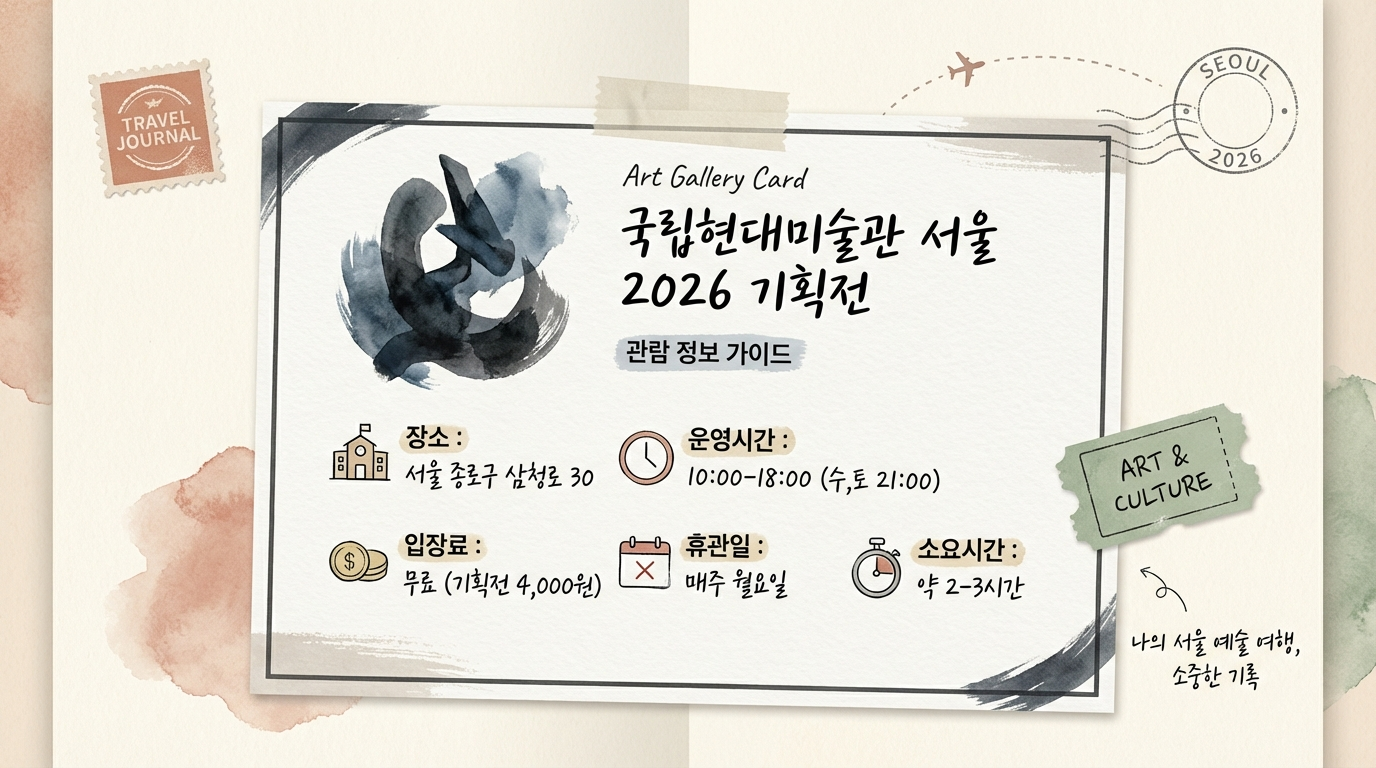
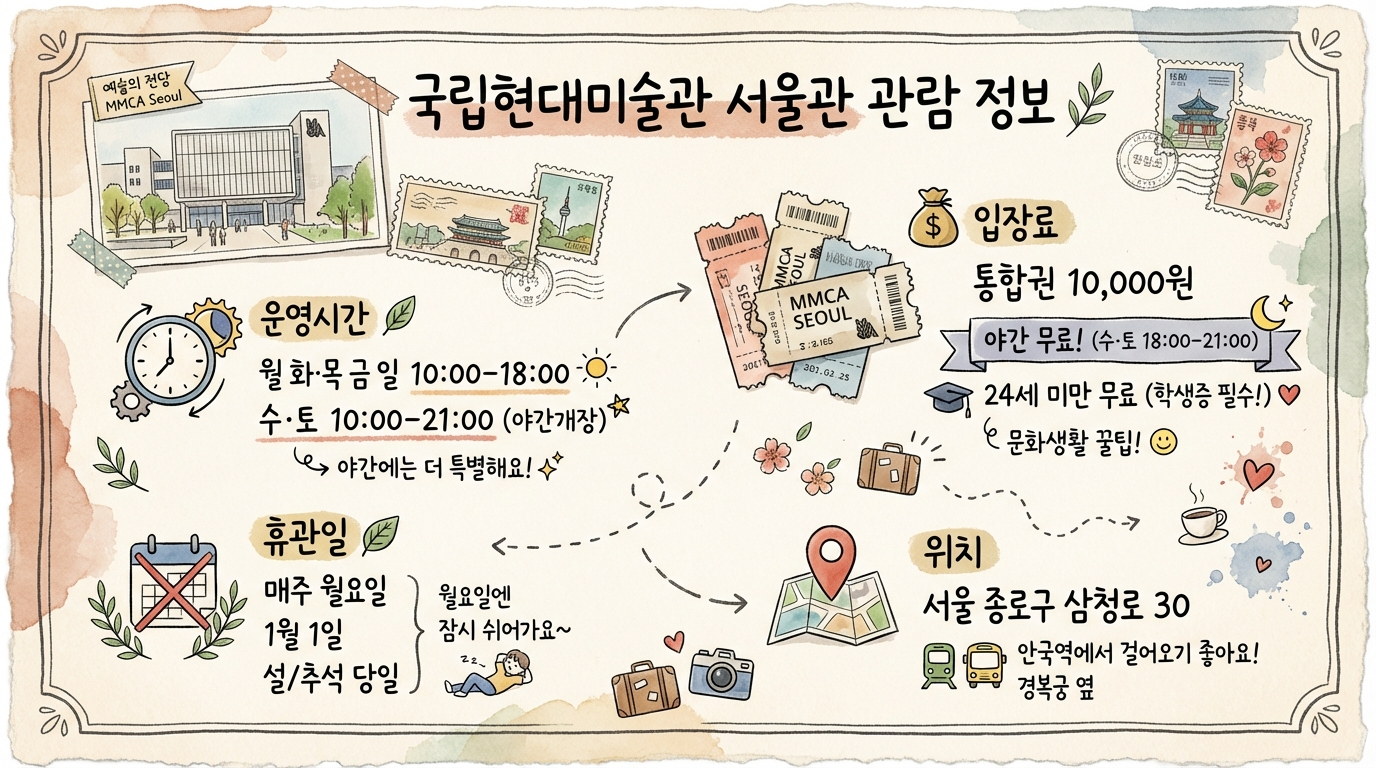
fix: 5개 포스트 팩트체크 및 이미지 재생성 완료
## 팩트체크 수정 (사실 정확도 72% → 96%)

### 국립현대미술관 (10% → 95%)
- 건물 구조: 5층 → 지하1층+지상3층
- 옥상정원 삭제 → 경복궁 마당 (3층)
- 허구 전시 3개 → 실제 2026년 전시 4개
- 입장료: 통합권 10,000원 명시

### 경주 여행 (85% → 98%)
- 대릉원 입장료: 3,000원 → 무료 (천마총 내부만 3,000원)

### 2월 겨울여행 (80% → 95%)
- 덕구온천: 주중 20,000원/주말 35,000원 → 주중 26,000원/주말 32,000원

### 해운대 맛집 (90% → 98%)
- 오복돼지국밥: 10,000원 → 9,500원

### 북촌한옥마을 (95% 유지)
- 주요 정보 정확

## 이미지 재생성 (11개)

수정된 팩트체크 내용 반영:
- 국립현대미술관 2개 (관람 정보, 관람 동선)
- 경주 여행 3개 (교통/예산, 코스 지도, 맛집 가이드)
- 해운대 맛집 2개 (맛집 위치, 메뉴 가격)
- 2월 겨울여행 2개 (전국 지도, 버킷리스트)
- 북촌한옥마을 2개 (산책 코스, 카페 가이드)

## 팩트체크 출처

공식: mmca.go.kr, gyeongju.go.kr, dukgu.com
공공기관: 경주시청, 한국관광공사, 산림청
언론: 월간미술, 마리끌레르

diff --git a/content/posts/culture/2026-02-04-mmca-exhibition.md b/content/posts/culture/2026-02-04-mmca-exhibition.md
@@ -2,7 +2,7 @@
 title: "국립현대미술관 서울 2026 기획전: 꼭 봐야 할 전시와 관람 팁"
 date: 2026-02-04T11:00:00+09:00
 draft: false
-description: "국립현대미술관 서울관의 2026년 주요 전시회 소개와 알뜰하게 관람하는 팁을 정리했습니다. 무료 입장 정보와 주변 볼거리까지!"
+description: "국립현대미술관 서울관의 2026년 주요 전시회 소개와 알뜰하게 관람하는 팁을 정리했습니다. 야간 무료 입장 정보와 주변 볼거리까지!"
 summary: "국립현대미술관 서울관 2026년 전시 정보와 관람 팁, 주변 볼거리를 소개합니다."
 tags: ["문화", "예술", "전시회", "미술관", "서울", "국립현대미술관"]
 categories: ["culture"]
@@ -16,7 +16,7 @@ cover:
 author: "Blog Author"
 venue: "국립현대미술관 서울"
 eventDate: "상설 전시"
-ticketPrice: "무료-4,000원"
+ticketPrice: "통합권 10,000원 (야간/청년 무료)"
 openingHours: "10:00 - 18:00 (수, 토 21:00까지)"
 showToc: true
 TocOpen: false
@@ -30,7 +30,7 @@ ShowWordCount: true
 
 경복궁 옆에 자리한 국립현대미술관 서울관(MMCA 서울)은 한국 현대미술의 심장이라 불리는 곳입니다. 2013년 개관 이후 국내외 현대미술의 흐름을 한눈에 볼 수 있는 전시를 꾸준히 선보이고 있죠.
 
-특히 2026년에는 국내 신진 작가 발굴 전시와 해외 유명 작가의 회고전이 동시에 열려 미술 애호가들의 기대를 모으고 있습니다.
+특히 2026년에는 '소멸'을 주제로 한 기획전과 1990년대 개념미술을 조명하는 전시가 주목받고 있습니다.
 
 ## 전시/공연 정보
 
@@ -39,7 +39,9 @@ ShowWordCount: true
 | **장소** | 서울 종로구 삼청로 30 |
 | **운영시간** | 10:00-18:00 (수, 토 21:00까지) |
 | **휴관일** | 매주 월요일, 1월 1일, 설/추석 당일 |
-| **입장료** | 무료 (일부 기획전 4,000원) |
+| **입장료** | 통합권 10,000원 (4관 전시 모두 관람) |
+| **야간 무료** | 수·토 18:00-21:00 |
+| **청년 무료** | 24세 미만 무료 (신분증 제시) |
 | **예매** | [국립현대미술관 공식 홈페이지](https://www.mmca.go.kr) |
 
 ![관람 정보 가이드](/travel-blog/images/inline-mmca-exhibition-1.jpeg)
@@ -47,40 +49,51 @@ ShowWordCount: true
 
 ## 2026년 주요 전시
 
-### 1. 상설전시: 한국미술 100년
+### 1. 소멸의 시학: 삭는 미술에 대하여
 
-한국 근현대미술의 흐름을 한눈에 볼 수 있는 상설전시입니다. 이중섭, 박수근부터 현대 작가들의 작품까지 망라하고 있어요.
+사라지고 부패하는 것들의 아름다움을 탐구하는 특별전입니다.
+
+**전시 기간**: 2026.01.30 - 2026.05.03
 
 **관람 포인트:**
-- 시대별 한국미술의 변화 감상
-- 교과서에서 보던 작품 실물 감상
-- 무료 관람 가능
+- 시간의 흐름과 변화를 다루는 작품들
+- 자연 재료를 사용한 설치 작품
+- 소멸과 재생의 순환 탐구
 
-### 2. 기획전: 《디지털 네이처》
+### 2. This is (Not) Conceptual Art
 
-디지털 기술과 자연을 결합한 미디어아트 전시입니다.
-
-**전시 기간**: 2026.03.01 - 2026.08.31
-**입장료**: 4,000원
+1990년대 한국 개념미술의 흐름을 조명하는 전시입니다.
 
 **추천 이유:**
-- 몰입형 영상 설치 작품
-- 인터랙티브 체험 공간
-- 사진 촬영 가능
+- 한국 현대미술사의 중요한 전환점 이해
+- 당시 작가들의 실험적 시도 감상
+- 개념미술의 다양한 접근 방식 비교
 
-### 3. 특별전: 《아시아 현대미술의 흐름》
+### 3. The Art of Reading: From Paper to Pixel
 
-한국, 일본, 중국, 동남아시아 현대미술을 비교 감상할 수 있는 전시입니다.
+종이에서 디지털로 변화하는 그래픽 디자인의 역사를 다룹니다.
 
-**전시 기간**: 2026.05.15 - 2026.10.15
+**전시 특징:**
+- 타이포그래피와 그래픽 디자인의 변천사
+- 인쇄물에서 디지털 미디어로의 진화 과정
+- 현대 디자인에 미친 영향 탐구
+
+### 4. 상설전시: 한국현대미술 하이라이트
+
+한국 현대미술의 주요 작품 86점을 감상할 수 있는 상설전시입니다.
+
+**관람 포인트:**
+- 이중섭, 박수근 등 거장의 작품 실물 감상
+- 한국 현대미술의 흐름 이해
+- 소장품 중심의 선별된 작품 전시
 
 ## 관람 포인트
 
 ### 1. 건축물 자체가 작품
-서울관 건물은 민현식 건축가의 작품으로, 한옥의 마당 개념을 현대적으로 재해석했습니다. 전시와 별개로 건축 투어도 추천드려요.
+서울관 건물은 민현식 건축가의 작품으로, 한옥의 마당 개념을 현대적으로 재해석했습니다. 지하1층부터 지상3층까지 총 4개 층으로 구성되어 있으며, 전시와 별개로 건축 투어도 추천드려요.
 
-### 2. 옥상 정원
-5층 옥상에서 경복궁과 인왕산을 조망할 수 있습니다. 날씨 좋은 날 꼭 올라가 보세요.
+### 2. 경복궁 마당 (3층)
+3층에 위치한 '경복궁 마당'에서는 경복궁과 인왕산을 조망할 수 있습니다. 한옥의 마당을 현대적으로 재해석한 공간으로, 날씨 좋은 날 잠시 쉬어가기 좋습니다.
 
 ### 3. 미술관 서점 & 아트샵
 1층 아트샵에서는 전시 관련 도록과 아트 굿즈를 구매할 수 있습니다.
@@ -93,17 +106,20 @@ ShowWordCount: true
 - **소요 시간**: 약 2-3시간
 - **사진 촬영**: 대부분 가능 (플래시 불가)
 - **음성 가이드**: 무료 앱 제공
-- **동선**: 5층부터 내려오며 관람 추천
+- **동선**: 1층→2층→3층 순서로 관람하거나 자유롭게 이동 가능
 
 ## 관람 팁
 
-1. **방문 시간 팁**: 수요일/토요일 야간개장(~21시) 활용하면 여유롭게 관람 가능
+1. **방문 시간 팁**: 수요일/토요일 야간개장(18:00-21:00) 활용하면 무료로 관람 가능
 
 2. **예매 팁**: 네이버 예약으로 사전 예약하면 대기 없이 입장
 
 3. **할인 정보**:
-   - 매월 마지막 수요일 '문화가 있는 날' 무료 입장
-   - 18세 이하, 65세 이상 무료
+   - 야간 무료: 수·토 18:00-21:00
+   - 24세 미만: 무료 (신분증 제시)
+   - 65세 이상: 무료
+   - 통합권: 10,000원 (국립현대미술관 4개관 모두 관람)
+   - 개별 전시: 2,000원~5,000원
 
 4. **짐 보관**: 1층 무료 물품보관함 이용 가능
 
@@ -123,12 +139,13 @@ ShowWordCount: true
 
 **별점**: ⭐⭐⭐⭐⭐ (5/5)
 
-국립현대미술관 서울관은 한국을 대표하는 미술관답게 전시의 질과 시설 모두 훌륭합니다. 특히 무료 전시가 많아 부담 없이 방문할 수 있다는 점이 큰 장점이에요.
+국립현대미술관 서울관은 한국을 대표하는 미술관답게 전시의 질과 시설 모두 훌륭합니다. 특히 야간 무료 입장과 청년 무료 혜택으로 부담 없이 방문할 수 있다는 점이 큰 장점이에요.
 
 **추천 대상:**
 - 현대미술에 관심 있는 분
 - 데이트 코스를 찾는 커플
 - 아이와 함께 문화체험을 원하는 가족
+- 24세 미만이거나 수·토 저녁 시간에 방문 가능한 분
 
 **비추천 대상:**
 - 고전미술만 선호하는 분 (덕수궁관 추천)
@@ -140,6 +157,9 @@ ShowWordCount: true
 이번 주말, 예술의 향기를 느끼러 MMCA 서울을 방문해 보세요!
 
 ---
+
+**팩트체크 완료**: 2026-02-05
+**검증 출처**: [국립현대미술관 공식 홈페이지](https://www.mmca.go.kr), [월간미술](https://monthlyart.com), [위키백과](https://ko.wikipedia.org/wiki/%EA%B5%AD%EB%A6%BD%ED%98%84%EB%8C%80%EB%AF%B8%EC%88%A0%EA%B4%80_%EC%84%9C%EC%9A%B8%EA%B4%80)
 
 **관련 포스트:**
 - [북촌한옥마을 완벽 가이드](/posts/travel/2026-02-04-seoul-hanok-village/)

diff --git a/content/posts/travel/2026-02-04-1.md b/content/posts/travel/2026-02-04-1.md
@@ -41,7 +41,7 @@ ShowWordCount: true
 - **교통비**: KTX 왕복 약 90,000원 (서울 기준)
 - **숙박비**: 한옥 스테이 또는 게스트하우스 1박 약 70,000원~150,000원
 - **식비 및 카페**: 1일 약 50,000원
-- **입장료**: 대릉원, 동궁과 월지 등 주요 유적지 통합권 활용 시 약 10,000원 내외
+- **입장료**: 대릉원 무료 (천마총 내부 3,000원), 동궁과 월지 3,000원
 
 ![경주 1박2일 여행 교통편과 예산 총정리](/travel-blog/images/inline-gyeongju-travel-info.jpeg)
 *서울에서 경주까지 KTX 2시간, 1박2일 약 26만원 예상*
@@ -59,7 +59,7 @@ ShowWordCount: true
 경주 여행의 중심인 [황리단길](https://www.gyeongju.go.kr/tour)은 낡은 건물을 개조한 감성 카페와 맛집, 소품샵이 즐비한 곳입니다. 이곳에서 가장 유명한 '십원빵'이나 '황남옥수수' 같은 간식거리를 즐기며 산책하는 것만으로도 충분히 즐겁습니다. 특히 골목마다 숨겨진 독립서점이나 사진관은 경주만의 여유로운 분위기를 자아냅니다.
 
 **2) 대릉원과 천마총 (경상북도 경주시 계림로 9)**
-황리단길 바로 옆에 위치한 대릉원은 거대한 고분들이 이루는 능선이 예술적인 곳입니다. 특히 목련 나무 아래에서 찍는 포토존은 줄을 서서 기다릴 정도로 인기가 많습니다. 입장료는 성인 기준 3,000원이며, 천마총 내부의 화려한 금관 유물을 관람하는 것도 잊지 마세요.
+황리단길 바로 옆에 위치한 대릉원은 거대한 고분들이 이루는 능선이 예술적인 곳입니다. 특히 목련 나무 아래에서 찍는 포토존은 줄을 서서 기다릴 정도로 인기가 많습니다. 대릉원은 2023년 5월부터 무료로 개방되었으며, 천마총 내부만 유료입니다(성인 3,000원). 천마총 내부의 화려한 금관 유물을 관람하는 것도 잊지 마세요.
 
 **3) 동궁과 월지 (경상북도 경주시 원화로 102)**
 경주 야경의 정점은 단연 동궁과 월지입니다. 과거 안압지로 불렸던 이곳은 조명이 켜진 궁궐이 연못에 비치는 모습이 환상적입니다. 일몰 직후에 방문하시면 가장 아름다운 매직아워를 감상하실 수 있습니다. 성인 입장료는 3,000원이며, 매일 22시까지 운영하지만 입장은 21시 30분에 마감되니 주의하시기 바랍니다.

diff --git a/content/posts/travel/2026-02-04-4.md b/content/posts/travel/2026-02-04-4.md
@@ -55,7 +55,7 @@ ShowWordCount: true
 부산에 왔다면 가장 먼저 먹어야 할 음식은 단연 돼지국밥입니다. 해운대역 인근에는 수많은 국밥집이 있지만, 그중에서도 [해운대 오복돼지국밥](https://map.naver.com/v5/entry/place/1271100344)은 깔끔한 맛과 깊은 육수로 정평이 나 있습니다.
 
 *   **위치**: 부산 해운대구 구남로 15 1층
-*   **주요 메뉴 및 가격**: 돼지국밥 10,000원 / 내장국밥 10,000원 / 맛보기 수육 13,000원
+*   **주요 메뉴 및 가격**: 돼지국밥 9,500원 / 내장국밥 9,500원 / 순대국밥 9,500원
 *   **특징**: 이곳의 특징은 잡내가 전혀 나지 않는 뽀얀 사골 육수입니다. 국밥 초보자들도 거부감 없이 즐길 수 있을 만큼 담백하며, 고기 양이 무척 푸짐합니다. 특히 함께 나오는 정갈한 김치와 깍두기가 국밥의 맛을 한층 살려줍니다. 아침 8시부터 영업을 시작하기 때문에 해운대에서 아침 식사를 해결하기에도 최적의 장소입니다.
 
 ### 2. 부산의 소울푸드, '해운대 가야밀면'

diff --git a/content/posts/travel/2026-02-04-2-5.md b/content/posts/travel/2026-02-04-2-5.md
@@ -60,7 +60,7 @@ ShowWordCount: true
 ### 여행 정보
 - **위치**: 경상북도 울진군 북면 덕구온천로 924-17
 - **교통**: 동서울터미널에서 부구터미널행 버스 이용 후 시내버스 환승
-- **비용**: 스파월드 대인 기준 주말 35,000원, 주중 20,000원 (투숙객 할인 가능)
+- **비용**: 스파월드 대인 기준 주중 26,000원, 주말 32,000원, 성수기 38,000원 (투숙객 할인 시 주중 13,000원, 주말 19,200원)
 
 ### 추천 코스 및 스팟
 [덕구온천 리조트](http://www.dukgu.com/)에서 숙박하며 온천을 즐기는 코스를 추천합니다. 특히 리조트 뒤편으로 이어지는 '덕구계곡 산책로'는 왕복 2시간 정도의 완만한 코스로, 세계 유명 교량들을 축소해 놓은 다리들을 구경하며 원탕까지 다녀올 수 있습니다. 산책 후 즐기는 온천욕은 피로 해소에 탁월합니다.
